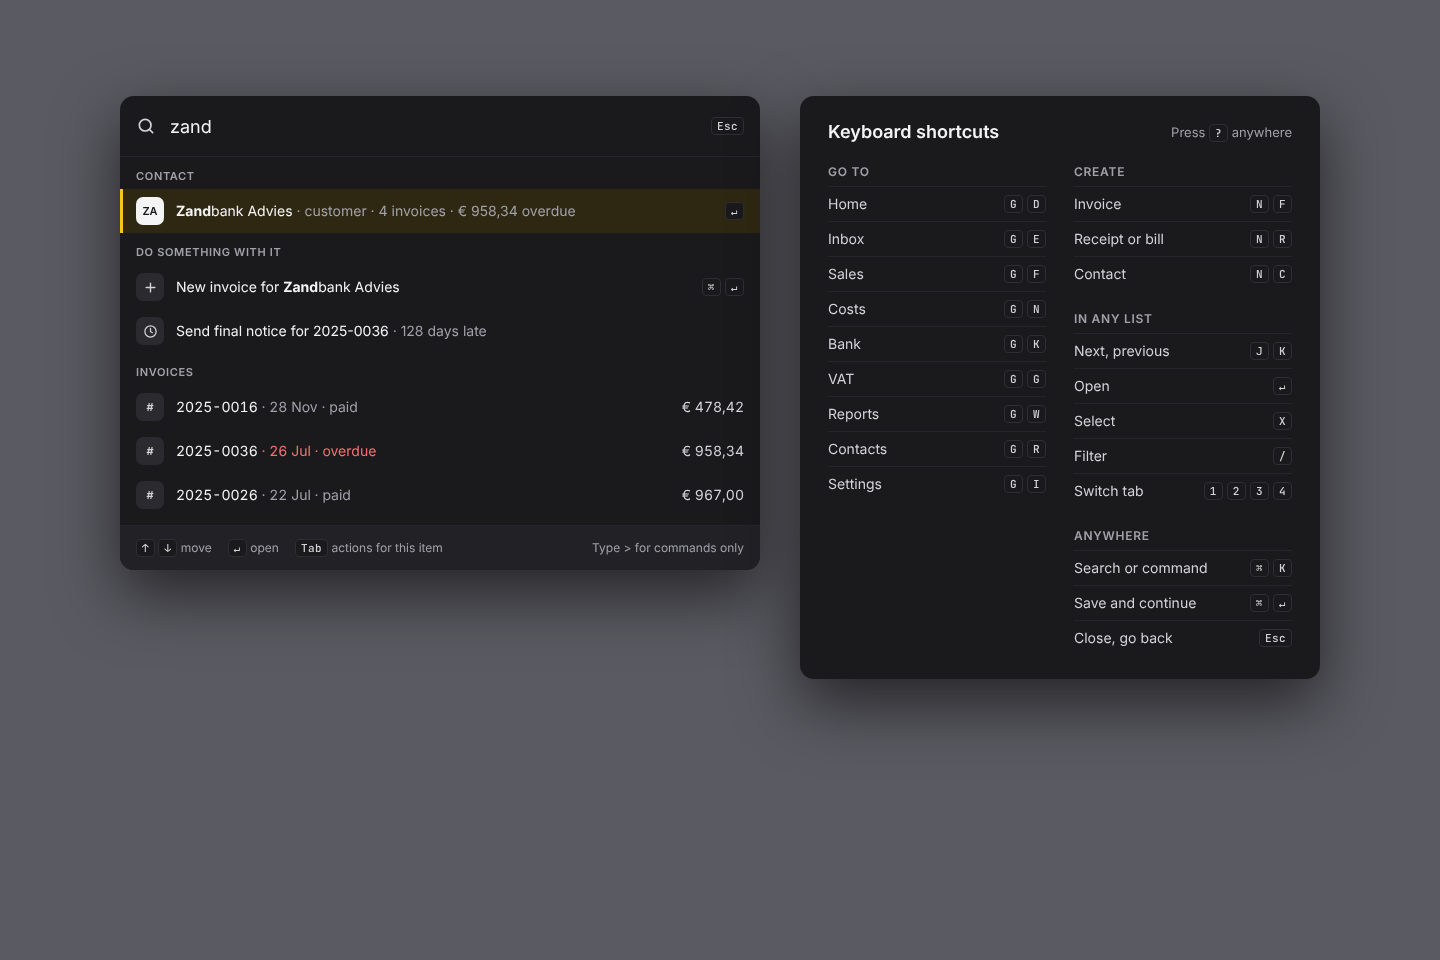
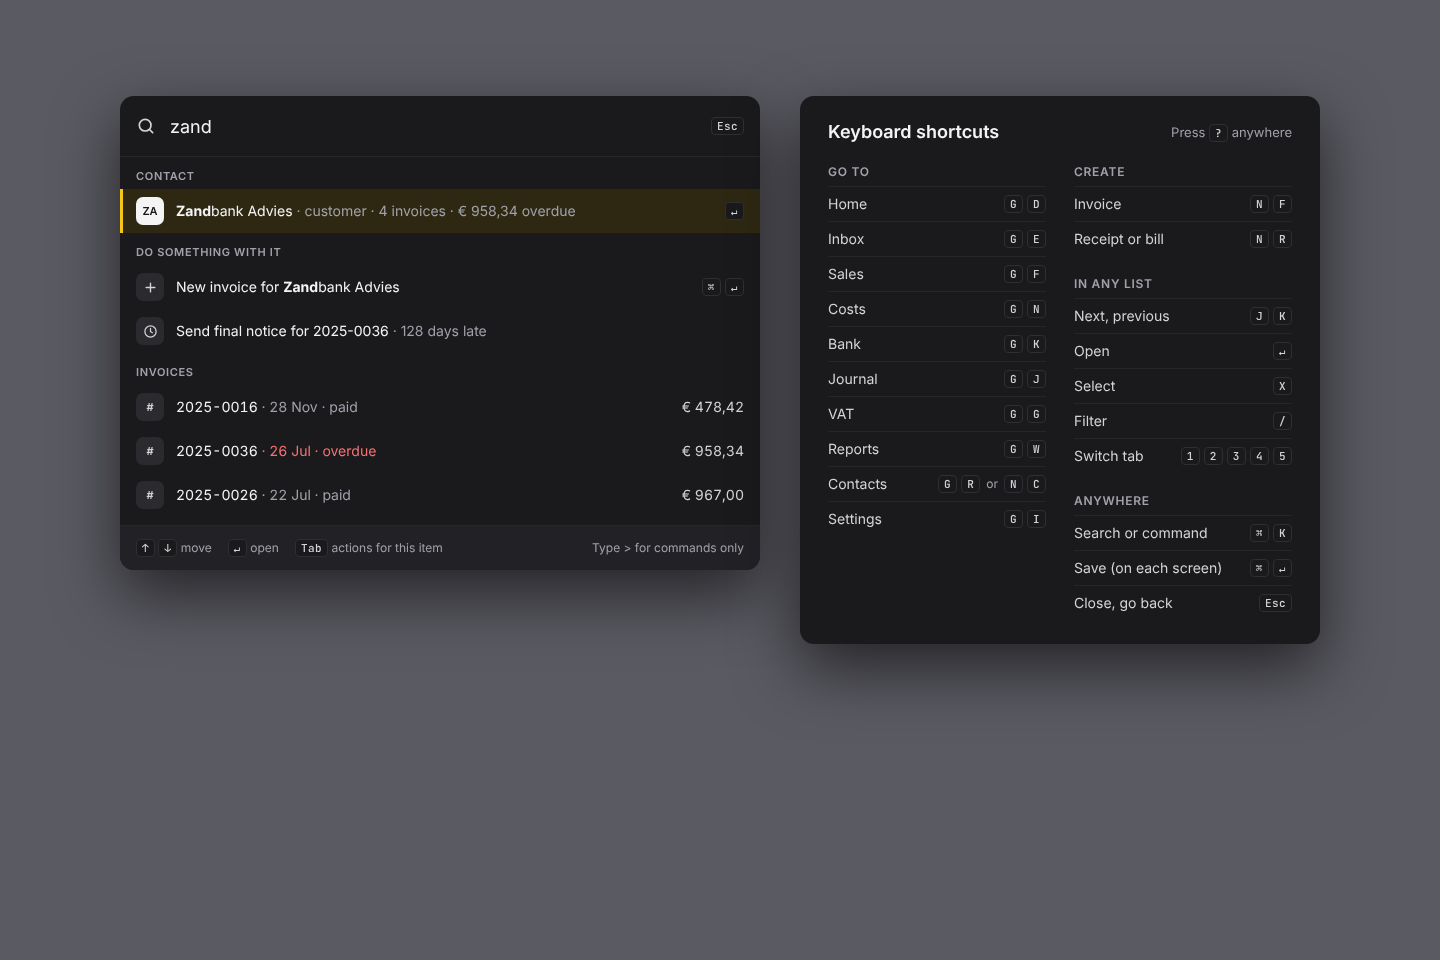
design: match CommandDark's shortcut sheet to the keymap (#149)
Switch tab shows 1 2 3 4 5 (tabs.switch), Go to gets Journal G J
(go.journal), N C moves from Create to the Go row Contacts (new.contact
only opens the list), and the global ⌘↵ row is "Save (on each screen)".
DERIVED.md lists these as departures from Hidde's Command and notes
that the command-bar Tab, ⌘↵ and ">" hints are not built yet.
PhoneCommand is unchanged. Re-shot Command-dark-1440.

Refs #149, Refs #140

diff --git a/design/redesign-2026-10/screens/CommandDark.dc.html b/design/redesign-2026-10/screens/CommandDark.dc.html
@@ -13,7 +13,7 @@
   query "zand" and the keyboard shortcut sheet, same content and layout.
   Its own file, not a theme="dark" wrapper, because Hidde's invoice tiles set the "#" glyph in
   JetBrains Mono (font: 600 10px var(--font-mono)); on derived boards mono is only for .k-code and
-  keycaps (.k-kbd), so the tiles use Inter 600 11px. The "Switch tab" hint shows the keys 1 2 3 4 instead of 1 – 4 (a lone dash in a keycap, as on ImportFindings in #152). A wrapper also can't drop the Google Fonts link.
+  keycaps (.k-kbd), so the tiles use Inter 600 11px. Keymap departures, to match apps/web/src/lib/keyboard.ts (see DERIVED.md): "Switch tab" shows 1 2 3 4 5 (tabs.switch, keys 1-5; Hidde: 1 – 4); Go gets Journal G J (go.journal) before VAT; N C (new.contact) only opens the contacts list, so it moves from Create to the Go row "Contacts" next to G R; ⌘↵ is "Save (on each screen)" (Hidde: "Save and continue"). The command-bar hints (Tab for actions, ⌘↵ on "New invoice for…", "Type > for commands only") stay as design targets; they are not built yet. A wrapper also can't drop the Google Fonts link.
   Amounts get nowrap. Everything else is Hidde's: keycaps stay .k-kbd (JetBrains Mono), the
   backdrop stays --ink-faint, which in dark is #5a5a62.
   Takes `theme` (default dark).
@@ -24,6 +24,8 @@
 <style>
 body{margin:0;background:#111113}
 .nw{white-space:nowrap}
+.alt{display:inline-flex;align-items:center;gap:6px}
+.or{font-size:12px;color:var(--ink-muted)}
 .ic{width:28px;height:28px;border-radius:7px}
 .sr{display:flex;justify-content:space-between;align-items:center;gap:12px;padding:7px 0;border-top:1px solid var(--line-soft)}
 .sr > span:first-child{color:var(--ink-2)}
@@ -95,9 +97,10 @@ body{margin:0;background:#111113}
         <div class="sr"><span>Sales</span><span class="k-chord"><span class="k-kbd">G</span><span class="k-kbd">F</span></span></div>
         <div class="sr"><span>Costs</span><span class="k-chord"><span class="k-kbd">G</span><span class="k-kbd">N</span></span></div>
         <div class="sr"><span>Bank</span><span class="k-chord"><span class="k-kbd">G</span><span class="k-kbd">K</span></span></div>
+        <div class="sr"><span>Journal</span><span class="k-chord"><span class="k-kbd">G</span><span class="k-kbd">J</span></span></div>
         <div class="sr"><span>VAT</span><span class="k-chord"><span class="k-kbd">G</span><span class="k-kbd">G</span></span></div>
         <div class="sr"><span>Reports</span><span class="k-chord"><span class="k-kbd">G</span><span class="k-kbd">W</span></span></div>
-        <div class="sr"><span>Contacts</span><span class="k-chord"><span class="k-kbd">G</span><span class="k-kbd">R</span></span></div>
+        <div class="sr"><span>Contacts</span><span class="alt"><span class="k-chord"><span class="k-kbd">G</span><span class="k-kbd">R</span></span><span class="or">or</span><span class="k-chord"><span class="k-kbd">N</span><span class="k-kbd">C</span></span></span></div>
         <div class="sr"><span>Settings</span><span class="k-chord"><span class="k-kbd">G</span><span class="k-kbd">I</span></span></div>
       </div>
       <div style="display: flex; flex-direction: column; gap: 20px;">
@@ -105,7 +108,6 @@ body{margin:0;background:#111113}
           <h3 class="sh">Create</h3>
           <div class="sr"><span>Invoice</span><span class="k-chord"><span class="k-kbd">N</span><span class="k-kbd">F</span></span></div>
           <div class="sr"><span>Receipt or bill</span><span class="k-chord"><span class="k-kbd">N</span><span class="k-kbd">R</span></span></div>
-          <div class="sr"><span>Contact</span><span class="k-chord"><span class="k-kbd">N</span><span class="k-kbd">C</span></span></div>
         </div>
         <div>
           <h3 class="sh">In any list</h3>
@@ -113,12 +115,12 @@ body{margin:0;background:#111113}
           <div class="sr"><span>Open</span><span class="k-kbd">↵</span></div>
           <div class="sr"><span>Select</span><span class="k-kbd">X</span></div>
           <div class="sr"><span>Filter</span><span class="k-kbd">/</span></div>
-          <div class="sr"><span>Switch tab</span><span class="k-chord"><span class="k-kbd">1</span><span class="k-kbd">2</span><span class="k-kbd">3</span><span class="k-kbd">4</span></span></div>
+          <div class="sr"><span>Switch tab</span><span class="k-chord"><span class="k-kbd">1</span><span class="k-kbd">2</span><span class="k-kbd">3</span><span class="k-kbd">4</span><span class="k-kbd">5</span></span></div>
         </div>
         <div>
           <h3 class="sh">Anywhere</h3>
           <div class="sr"><span>Search or command</span><span class="k-chord"><span class="k-kbd">⌘</span><span class="k-kbd">K</span></span></div>
-          <div class="sr"><span>Save and continue</span><span class="k-chord"><span class="k-kbd">⌘</span><span class="k-kbd">↵</span></span></div>
+          <div class="sr"><span>Save (on each screen)</span><span class="k-chord"><span class="k-kbd">⌘</span><span class="k-kbd">↵</span></span></div>
           <div class="sr"><span>Close, go back</span><span class="k-kbd">Esc</span></div>
         </div>
       </div>

diff --git a/design/redesign-2026-10/DERIVED.md b/design/redesign-2026-10/DERIVED.md
@@ -8,7 +8,7 @@ Hidde's desktop-light `Command` board (the command bar with the query "zand", ne
 
 | Board | What it is | Screenshots in `derived-shots/command-149/` |
 | --- | --- | --- |
-| `CommandDark.dc.html`, `theme` prop (default dark) | Own file: Hidde's `Command` at 1440, Inter on the invoice tiles, 1 2 3 4 keycaps, self-hosted fonts | `Command-dark-1440` |
+| `CommandDark.dc.html`, `theme` prop (default dark) | Own file: Hidde's `Command` at 1440, Inter on the invoice tiles, the shortcut sheet matched to the real keymap, self-hosted fonts | `Command-dark-1440` |
 | `PhoneCommand.dc.html`, `theme` and `view` props | The command bar at 390 as a full-screen search sheet. `view` = `results` (default: the query "zand") or `start` (empty: Create and Recent) | `Command-{results,start}-light-390` |
 | `PhoneCommandDark.dc.html`, `view` prop | `PhoneCommand` with `theme="dark"`, passes `view` on | `Command-{results,start}-dark-390` |
 
@@ -19,9 +19,24 @@ All three are registered in `canvas.json` (note `t149` at y 41700, boards at y 4
 A thin wrapper would keep two things the derived boards don't allow:
 
 - Hidde's three invoice tiles set the "#" glyph in JetBrains Mono (`font: 600 10px var(--font-mono)`). On derived boards mono is only for `.k-code` and the keycaps (`.k-kbd`, which the bundle sets in JetBrains Mono and which stay as drawn). The copy uses Inter 600 11px and hides the glyph from screen readers.
-- The "Switch tab" hint is `1 – 4`, with the dash as a keycap of its own. `shoot.mjs` flags a lone dash, and a dash isn't a key. The copy shows `1 2 3 4`, the same fix as the `1`–`3` hint on `ImportFindingsDark` (#152).
+- The shortcut sheet doesn't match the app's keymap (`apps/web/src/lib/keyboard.ts`). See "Keymap departures" below. Hidde's "Switch tab" hint also had a dash as a keycap of its own (`1 – 4`), which `shoot.mjs` flags.
 
-Also in the copy: amounts get `nowrap`, and the fonts are self-hosted (a wrapper can't remove Hidde's Google Fonts link). The layout, rows, keys and copy are Hidde's. The backdrop stays `--ink-faint`, which is #5a5a62 in dark. In dark the yellow selected row (`selection` with the `selection-edge` bar) keeps `ink` and muted text at 13.38 and 5.74:1.
+Also in the copy: amounts get `nowrap`, and the fonts are self-hosted (a wrapper can't remove Hidde's Google Fonts link). Apart from the keymap departures, the layout, rows, keys and copy are Hidde's. The backdrop stays `--ink-faint`, which is #5a5a62 in dark. In dark the yellow selected row (`selection` with the `selection-edge` bar) keeps `ink` and muted text at 13.38 and 5.74:1.
+
+### Keymap departures from Hidde's `Command`
+
+Made on `CommandDark` to match the real keymap in `apps/web/src/lib/keyboard.ts` (and `docs/keyboard-map.md`, which says the sheet lists tabs as `1`–`5` and includes `G J`). Hidde's light board is unchanged and still shows his version.
+
+1. **Switch tab: `1 2 3 4 5`** (Hidde: `1 – 4`). `tabs.switch` has keys `1-5` (keyboard.ts:46): Reports has five tabs.
+2. **Journal `G J` in Go to**, after Bank and before VAT, where Journal sits in the sidebar (Books: Journal, VAT, Reports). `go.journal` (keyboard.ts:53). Hidde's sheet has no Journal row.
+3. **`N C` moves from Create to Go to, as "Contacts".** `new.contact` goes to `/contacts`, the list, not a new-contact form (keyboard.ts:280–285; the app's label is "Go to contacts"). It shares the Contacts row with `G R`: "`G R` or `N C`". Create keeps Invoice and Receipt or bill.
+4. **`⌘ ↵` is "Save (on each screen)"** (Hidde: "Save and continue"). There is no global ⌘↵. Each form binds its own: `invoiceForm.save`, `invoice.issue`, `entry.post` (keyboard.ts:388–414).
+
+### Not built yet
+
+| Command-bar hint on `CommandDark` (and Hidde's `Command`) | State in the app |
+| --- | --- |
+| `Tab` "actions for this item", `⌘ ↵` on "New invoice for Zandbank Advies", and "Type > for commands only" | Not built. `keyboard.ts` has no palette binding for Tab, ⌘↵ or a `>` prefix (the palette group has only `palette` ⌘K and `help` ?, keyboard.ts:35–42), and the palette handles only Escape, ↑, ↓ and Enter (`components/command-palette.tsx`). They stay visible on the board as design targets. |
 
 ### Phone: what the command bar becomes
 
@@ -31,6 +46,7 @@ A phone has no keyboard shortcuts, so on phone the command bar is a **search she
 - **No key hints.** No `Esc`, `↵` or `⌘ ↵` chips, no ↑ ↓ / ↵ / Tab footer and no "Type > for commands only". Commands appear in the results as rows, as they do on desktop.
 - **Nothing pre-selected.** On desktop the yellow row is the keyboard cursor. A phone has no cursor, so every row looks the same and tapping one opens it.
 - **Rows are links, 56px or more,** with a 32px tile and a chevron, in Hidde's groups: Contact, "Do something with it", Invoices. A row's trailing detail moves to a second line ("Customer · 4 invoices · € 958,34 overdue", "128 days late", "28 Nov · paid"). The amount stays on the right in Inter tabular, and "€ 958,34 overdue" doesn't wrap.
+- **"New contact" stays on `view=start`.** `N C` only opens the list, but the app does have a create-contact flow: the New contact button on `/contacts` opens the form (`contacts.new`, `routes/_app/contacts.index.tsx`). So the row stays and goes to `PhoneContacts`, where that button is.
 - **`view=start`** is the empty sheet: placeholder "Search or jump to" (the sidebar's label), then **Create** (New invoice, Receipt or bill, New contact) and **Recent** (a contact, an invoice, a page). This shows how actions work on phone without a query.
 
 ### Phone: no shortcut sheet
@@ -86,6 +102,9 @@ Strings Hidde already has on `Command` are not repeated here.
 | 28 Nov · paid / 26 Jul · overdue | 28 nov · betaald / 26 jul · te laat |
 | Create | Nieuw |
 | New invoice / Receipt or bill / New contact | Nieuwe factuur / Bon of factuur / Nieuw contact |
+| Journal (Go to) | Journaal |
+| Contacts: G R or N C | Relaties: G R of N C |
+| Save (on each screen) | Opslaan (op elk scherm) |
 | Take a photo or choose a file | Maak een foto of kies een bestand |
 | Recent | Recent |
 | Contact / Invoice · Zandbank Advies / Page | Contact / Factuur · Zandbank Advies / Pagina |
